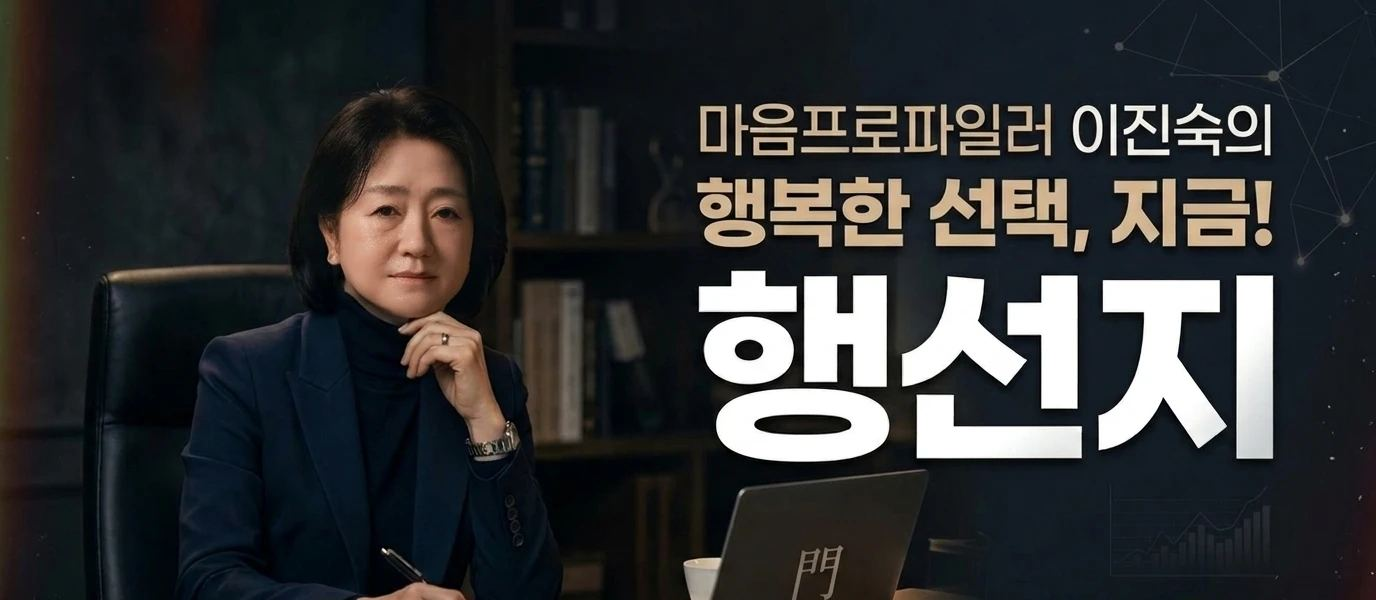
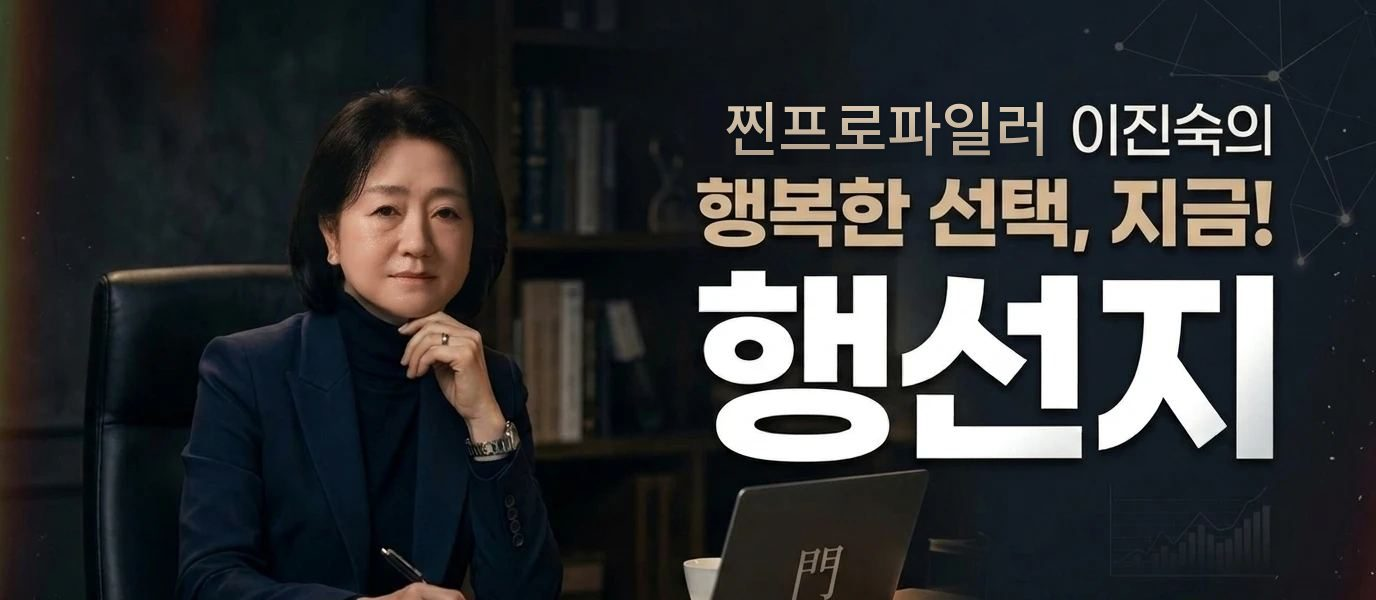
v12 미리보기: 행선지 배너 크기·글자
Claude-Session: https://claude.ai/code/session_01UNbqt54F8HmXHQV2RZRy25

Changed region(s): [[0.5, 0.15, 0.7812, 0.27]]

diff --git a/v12/profiling.html b/v12/profiling.html
@@ -3,7 +3,7 @@
 <meta name="description" content="사건 프로파일링보고서(의뢰인 면담 원칙, 작성사례, 의뢰절차)와 셀프 프로파일링 SP-CHANGE.">
 
 <link rel="preconnect" href="https://fonts.googleapis.com"><link rel="preconnect" href="https://fonts.gstatic.com" crossorigin=""><link rel="stylesheet" href="https://fonts.googleapis.com/css2?family=Nanum+Brush+Script&amp;family=Noto+Serif+KR:wght@400;500;600&amp;display=swap"><link rel="stylesheet" href="https://cdn.jsdelivr.net/gh/orioncactus/pretendard@v1.3.9/dist/web/variable/pretendardvariable-dynamic-subset.min.css">
-<link rel="stylesheet" href="site.css?v=202611200018">
+<link rel="stylesheet" href="site.css?v=202611200021">
 <meta property="og:image" content="https://profiling.kr/v12/img/ref-og-profiling.jpg"></head><body data-page="profiling">
 <a class="skip" href="#main">본문 바로가기</a>
 <header id="top">
@@ -212,6 +212,6 @@
 
 <!-- 보고서 구성 예시 (v3) -->
 <dialog id="sample-dialog" aria-labelledby="sample-title"><div class="modal-head"><span>보고서 구성 예시</span><button class="close" type="button" aria-label="예시 창 닫기">×</button></div><div class="modal-body"><span class="stamp">설명용 가상 예시 · 실제 사건 아님</span><h2 id="sample-title" style="margin-top:16px">분석 결과,<br>이렇게 살펴봅니다.</h2><p>보고서의 구성을 이해하기 위한 예시입니다. 실제 제공 항목과 형식은 의뢰 목적에 따라 협의합니다.</p><article class="sample-paper"><small>예시 01</small><h3>기록 간 시간 차이 검토</h3><section><b>01 &nbsp; 확인된 기록</b><p>가상 기록 A에는 ‘오후 3시’, 기록 B에는 ‘오후 4시’로 기재되어 있습니다.</p></section><section><b>02 &nbsp; 검토할 쟁점</b><p>두 기록이 같은 시점을 설명하는지, 시각이 추정인지 기록에 근거한 것인지 확인이 필요합니다.</p></section><section><b>03 &nbsp; 해석의 범위</b><p>시간 표현의 차이만으로 진술의 진위나 의도를 단정할 수 없습니다. 다른 기록과 작성 맥락을 함께 검토합니다.</p></section><section><b>04 &nbsp; 추가 확인 사항</b><p>원문, 작성 시점, 시간 표현의 근거와 관련 자료를 확인합니다.</p></section></article><p class="micro">이 예시는 보고서의 설명 방식을 보여 주는 가상 자료입니다.</p></div></dialog>
-<script src="site.js?v=202611200018"></script>
+<script src="site.js?v=202611200021"></script>
 
 </body></html>

diff --git a/v12/advice.html b/v12/advice.html
@@ -3,7 +3,7 @@
 <meta name="description" content="전문가 자문 — 형사사건 자문, 사건 관련 자문, 관계성 범죄 자문(가스라이팅·그루밍·심리적 지배·데이트 폭력·성범죄·학대).">
 
 <link rel="preconnect" href="https://fonts.googleapis.com"><link rel="preconnect" href="https://fonts.gstatic.com" crossorigin=""><link rel="stylesheet" href="https://fonts.googleapis.com/css2?family=Nanum+Brush+Script&amp;family=Noto+Serif+KR:wght@400;500;600&amp;display=swap"><link rel="stylesheet" href="https://cdn.jsdelivr.net/gh/orioncactus/pretendard@v1.3.9/dist/web/variable/pretendardvariable-dynamic-subset.min.css">
-<link rel="stylesheet" href="site.css?v=202611200018">
+<link rel="stylesheet" href="site.css?v=202611200021">
 <meta property="og:image" content="https://profiling.kr/v12/img/ref-og-profiling.jpg"></head><body data-page="advice">
 <a class="skip" href="#main">본문 바로가기</a>
 <header id="top">
@@ -138,6 +138,6 @@
   <p class="send-to">전화 문의 <a href="tel:0327102055">032-710-2055</a> · 이메일 <a href="mailto:moonprofiling@gmail.com">moonprofiling@gmail.com</a></p>
  </form>
 </div></dialog>
-<script src="site.js?v=202611200018"></script>
+<script src="site.js?v=202611200021"></script>
 
 </body></html>

diff --git a/v12/insight.html b/v12/insight.html
@@ -3,7 +3,7 @@
 <meta name="description" content="이진숙 프로파일러의 소식·칼럼·방송·출간 소식.">
 
 <link rel="preconnect" href="https://fonts.googleapis.com"><link rel="preconnect" href="https://fonts.gstatic.com" crossorigin=""><link rel="stylesheet" href="https://fonts.googleapis.com/css2?family=Nanum+Brush+Script&amp;family=Noto+Serif+KR:wght@400;500;600&amp;display=swap"><link rel="stylesheet" href="https://cdn.jsdelivr.net/gh/orioncactus/pretendard@v1.3.9/dist/web/variable/pretendardvariable-dynamic-subset.min.css">
-<link rel="stylesheet" href="site.css?v=202611200018">
+<link rel="stylesheet" href="site.css?v=202611200021">
 <meta property="og:image" content="https://profiling.kr/v12/img/ref-og-profiling.jpg"></head><body data-page="insight">
 <a class="skip" href="#main">본문 바로가기</a>
 <header id="top">
@@ -80,6 +80,6 @@
 
 <!-- 인사이트 글 창 -->
 <dialog id="post-dialog" aria-labelledby="post-title"><div class="modal-head"><span>인사이트</span><button class="close" type="button" aria-label="글 창 닫기">×</button></div><div class="modal-body article" id="post-body"></div></dialog>
-<script src="site.js?v=202611200018"></script>
+<script src="site.js?v=202611200021"></script>
 
 </body></html>

diff --git a/v12/contact.html b/v12/contact.html
@@ -3,7 +3,7 @@
 <meta name="description" content="상담/문의 — 연락/도움요청, 비용안내, 자주묻는 질문. 보낼 문의 내용을 정리해 복사할 수 있습니다.">
 
 <link rel="preconnect" href="https://fonts.googleapis.com"><link rel="preconnect" href="https://fonts.gstatic.com" crossorigin=""><link rel="stylesheet" href="https://fonts.googleapis.com/css2?family=Nanum+Brush+Script&amp;family=Noto+Serif+KR:wght@400;500;600&amp;display=swap"><link rel="stylesheet" href="https://cdn.jsdelivr.net/gh/orioncactus/pretendard@v1.3.9/dist/web/variable/pretendardvariable-dynamic-subset.min.css">
-<link rel="stylesheet" href="site.css?v=202611200018">
+<link rel="stylesheet" href="site.css?v=202611200021">
 <meta property="og:image" content="https://profiling.kr/v12/img/ref-og-profiling.jpg"></head><body data-page="contact">
 <a class="skip" href="#main">본문 바로가기</a>
 <header id="top">
@@ -91,6 +91,6 @@
   <p class="send-to">전화 문의 <a href="tel:0327102055">032-710-2055</a> · 이메일 <a href="mailto:moonprofiling@gmail.com">moonprofiling@gmail.com</a></p>
  </form>
 </div></dialog>
-<script src="site.js?v=202611200018"></script>
+<script src="site.js?v=202611200021"></script>
 
 </body></html>

diff --git a/v12/about.html b/v12/about.html
@@ -3,7 +3,7 @@
 <meta name="description" content="이진숙 프로파일러와 이진숙 프로파일링 연구소 門 소개. 경력·수상·자격과 연구소 철학.">
 
 <link rel="preconnect" href="https://fonts.googleapis.com"><link rel="preconnect" href="https://fonts.gstatic.com" crossorigin=""><link rel="stylesheet" href="https://fonts.googleapis.com/css2?family=Nanum+Brush+Script&amp;family=Noto+Serif+KR:wght@400;500;600;700;900&amp;display=swap"><link rel="stylesheet" href="https://cdn.jsdelivr.net/gh/orioncactus/pretendard@v1.3.9/dist/web/variable/pretendardvariable-dynamic-subset.min.css">
-<link rel="stylesheet" href="site.css?v=202611200018">
+<link rel="stylesheet" href="site.css?v=202611200021">
 <meta property="og:image" content="https://profiling.kr/v12/img/ref-og-profiling.jpg"></head><body data-page="about">
 <a class="skip" href="#main">본문 바로가기</a>
 <header id="top">
@@ -117,6 +117,6 @@
   <p class="send-to">전화 문의 <a href="tel:0327102055">032-710-2055</a> · 이메일 <a href="mailto:moonprofiling@gmail.com">moonprofiling@gmail.com</a></p>
  </form>
 </div></dialog>
-<script src="site.js?v=202611200018"></script>
+<script src="site.js?v=202611200021"></script>
 
 </body></html>

diff --git a/v12/sias.html b/v12/sias.html
@@ -3,7 +3,7 @@
 <meta name="description" content="진술분석 SIAS: 진술·녹취·메시지 분석. 분석 대상, 방법론(SCAN·SVA·CBCA), 분석 절차.">
 
 <link rel="preconnect" href="https://fonts.googleapis.com"><link rel="preconnect" href="https://fonts.gstatic.com" crossorigin=""><link rel="stylesheet" href="https://fonts.googleapis.com/css2?family=Nanum+Brush+Script&amp;family=Noto+Serif+KR:wght@400;500;600&amp;display=swap"><link rel="stylesheet" href="https://cdn.jsdelivr.net/gh/orioncactus/pretendard@v1.3.9/dist/web/variable/pretendardvariable-dynamic-subset.min.css">
-<link rel="stylesheet" href="site.css?v=202611200018">
+<link rel="stylesheet" href="site.css?v=202611200021">
 <meta property="og:image" content="https://profiling.kr/v12/img/ref-og-profiling.jpg"></head><body data-page="sias">
 <a class="skip" href="#main">본문 바로가기</a>
 <header id="top">
@@ -231,6 +231,6 @@
   <p class="send-to">전화 문의 <a href="tel:0327102055">032-710-2055</a> · 이메일 <a href="mailto:moonprofiling@gmail.com">moonprofiling@gmail.com</a></p>
  </form>
 </div></dialog>
-<script src="site.js?v=202611200018"></script>
+<script src="site.js?v=202611200021"></script>
 
 </body></html>

diff --git a/v12/edu.html b/v12/edu.html
@@ -3,7 +3,7 @@
 <meta name="description" content="기업·공공기관 강연, 방송·언론 출연, 프로파일링 아카데미(진술분석 실무자 과정).">
 
 <link rel="preconnect" href="https://fonts.googleapis.com"><link rel="preconnect" href="https://fonts.gstatic.com" crossorigin=""><link rel="stylesheet" href="https://fonts.googleapis.com/css2?family=Nanum+Brush+Script&amp;family=Noto+Serif+KR:wght@400;500;600&amp;display=swap"><link rel="stylesheet" href="https://cdn.jsdelivr.net/gh/orioncactus/pretendard@v1.3.9/dist/web/variable/pretendardvariable-dynamic-subset.min.css">
-<link rel="stylesheet" href="site.css?v=202611200018">
+<link rel="stylesheet" href="site.css?v=202611200021">
 <meta property="og:image" content="https://profiling.kr/v12/img/ref-og-profiling.jpg"></head><body data-page="edu">
 <a class="skip" href="#main">본문 바로가기</a>
 <header id="top">
@@ -86,6 +86,6 @@
   <p class="send-to">전화 문의 <a href="tel:0327102055">032-710-2055</a> · 이메일 <a href="mailto:moonprofiling@gmail.com">moonprofiling@gmail.com</a></p>
  </form>
 </div></dialog>
-<script src="site.js?v=202611200018"></script>
+<script src="site.js?v=202611200021"></script>
 
 </body></html>

diff --git a/v12/tests.html b/v12/tests.html
@@ -3,7 +3,7 @@
 <meta name="description" content="관계·감정·욕구·스트레스·성격을 보는 9가지 심리검사와 1:1 전문가 상담.">
 
 <link rel="preconnect" href="https://fonts.googleapis.com"><link rel="preconnect" href="https://fonts.gstatic.com" crossorigin=""><link rel="stylesheet" href="https://fonts.googleapis.com/css2?family=Nanum+Brush+Script&amp;family=Noto+Serif+KR:wght@400;500;600&amp;display=swap"><link rel="stylesheet" href="https://cdn.jsdelivr.net/gh/orioncactus/pretendard@v1.3.9/dist/web/variable/pretendardvariable-dynamic-subset.min.css">
-<link rel="stylesheet" href="site.css?v=202611200018">
+<link rel="stylesheet" href="site.css?v=202611200021">
 <meta property="og:image" content="https://profiling.kr/v12/img/ref-og-profiling.jpg"></head><body data-page="tests">
 <a class="skip" href="#main">본문 바로가기</a>
 <header id="top">
@@ -89,6 +89,6 @@
   <p class="send-to">전화 문의 <a href="tel:0327102055">032-710-2055</a> · 이메일 <a href="mailto:moonprofiling@gmail.com">moonprofiling@gmail.com</a></p>
  </form>
 </div></dialog>
-<script src="site.js?v=202611200018"></script>
+<script src="site.js?v=202611200021"></script>
 
 </body></html>

diff --git a/v12/home.css b/v12/home.css
@@ -390,3 +390,6 @@ ol,ul{padding:0;list-style:none}
 .k{display:inline-flex!important;align-items:center;min-height:40px;padding:5px 18px;border-radius:999px;border:1.5px solid #e3bd7c;background:rgba(227,189,124,.14);color:#f3dcb0!important;font-size:16px!important;font-weight:700!important;letter-spacing:.08em!important;line-height:1.2}
 .doors .k,.dest2 .k{border-color:#c99e5e;background:#f3e6cf;color:#7a4a1e!important}
 @media(max-width:720px){.k{font-size:15px!important;min-height:38px;padding:4px 14px}}
+/* 행선지 배너 30% 작게, 가운데 (2026-11-20 남덕 님) */
+.d2-banner{width:70%;justify-self:center;margin-left:auto;margin-right:auto}
+@media(max-width:720px){.d2-banner{width:100%}}
